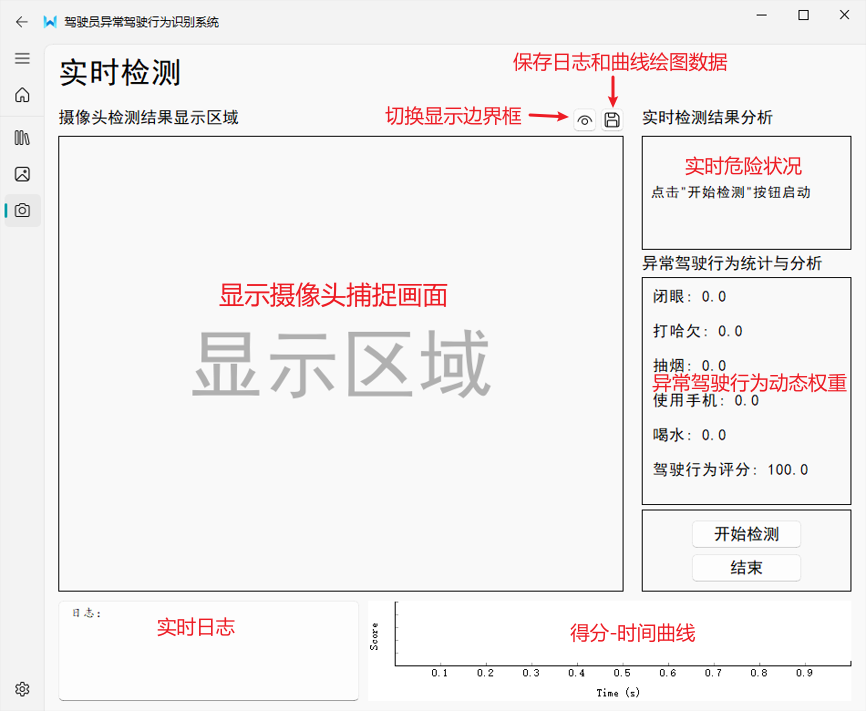
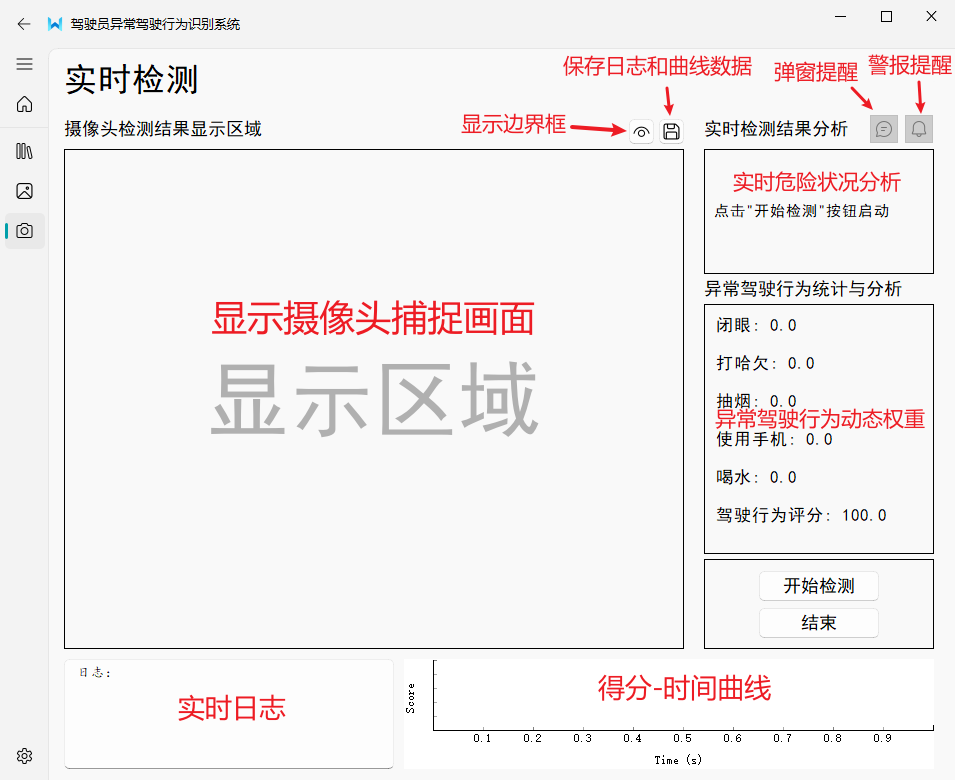
完善了实时检测的界面和弹窗提醒机制

diff --git a/adb-detector/real_time_detector.py b/adb-detector/real_time_detector.py
@@ -10,8 +10,8 @@ from PyQt5.QtCore import QTimer, Qt, QDateTime
 from PyQt5.QtGui import QFont, QImage, QPixmap
 from PyQt5.QtWidgets import QFrame, QVBoxLayout, QWidget, QMessageBox
 import pyqtgraph as pg  # pyqtgraph必须在PyQt5后面import
-from qfluentwidgets import PushButton, ToolButton, FluentIcon, TitleLabel, BodyLabel, TextEdit, qconfig, InfoBar, \
-    InfoBarPosition
+from qfluentwidgets import PushButton, ToolButton, FluentIcon, TitleLabel, BodyLabel, TextEdit, qconfig, \
+    TransparentToolButton
 
 from utils.config import MyConfig
 from playsound import playsound
@@ -76,13 +76,22 @@ class RealTime_Detector(QWidget):
         self.__score = 100
 
         self.__adb_frame_cnt = {'eye_close': 0, 'yawn': 0, 'smoke': 0, 'phone': 0, 'drink': 0}  # 单位时间内异常动作帧数统计
-        self.__frame_threshold = 0.4  # 被判定为异常行为的帧数所占正常帧数的比例阈值
+        self.__frame_threshold = 0.3  # 被判定为异常行为的帧数所占正常帧数的比例阈值
         self.queue = queue.Queue()  # 帧队列，存有单位时间（1s）内每一帧的异常行为
 
         # 实时检测结果分析
         self.res_label = BodyLabel('实时检测结果分析', self)
         self.res_label.setGeometry(655, 70, 150, 20)
         self.res_label.setFont(QFont("SimHei", 11))
+
+        self.msg_flag = TransparentToolButton(FluentIcon.MESSAGE, self)
+        self.msg_flag.setGeometry(820, 65, 30, 30)
+        self.msg_flag.setStyleSheet("background-color: yellow;")
+        self.msg_flag.setEnabled(False)
+        self.alarm_flag = TransparentToolButton(FluentIcon.RINGER, self)
+        self.alarm_flag.setGeometry(855, 65, 30, 30)
+        self.alarm_flag.setStyleSheet("background-color: red;")
+        self.alarm_flag.setEnabled(False)
 
         self.res_frame = QFrame(self)
         self.res_frame.setFrameShape(QFrame.Box)
@@ -256,17 +265,24 @@ class RealTime_Detector(QWidget):
         for adb, flag in self.adb_flag.items():
             self.__score -= (flag + self.lamda[adb]) * self.adb_weight[adb]
 
-        if 75 < self.__score <= 90 and self.isMsg == False:
-            self.msg.show()
-            self.isMsg = True
-        elif self.__score >= 90:
+        # 弹窗
+        if self.__score <= 90:
+            if not self.isMsg:
+                self.msg.show()
+                self.isMsg = True
+                self.msg_flag.setStyleSheet("background-color: yellow;")
+        else:
             self.msg.hide()
             self.isMsg = False
-        elif self.__score <= 75 and self.isAlarm == False:
-            self.isAlarm = True
-            alarm_thread = threading.Thread(target=self.alarm)
-            alarm_thread.daemon = True
-            alarm_thread.start()
+            self.msg_flag.setStyleSheet("")
+        # 警报
+        if self.__score <= 75:
+            if not self.isAlarm:
+                self.isAlarm = True
+                alarm_thread = threading.Thread(target=self.alarm)
+                alarm_thread.daemon = True
+                self.alarm_flag.setStyleSheet("background-color: red;")
+                alarm_thread.start()
 
         self.set_text()
 
@@ -274,6 +290,7 @@ class RealTime_Detector(QWidget):
         for _ in range(3):
             playsound(f'{self.resource_folder}/audio/alarm_80.mp3')
         self.isAlarm = False
+        self.alarm_flag.setStyleSheet("")
 
     def update_weight(self, adb):
         self.lamda[adb] = min(self.lamda[adb] + 0.2, 1)
@@ -308,7 +325,11 @@ class RealTime_Detector(QWidget):
             self.lamda[adb] = 0
 
         self.__score = 100
+
+        self.isMsg = False
+        self.msg_flag.setStyleSheet("")
         self.isAlarm = False
+        self.alarm_flag.setStyleSheet("")
 
     def set_text(self):
         self.analyse_label.setText(f'闭眼: {self.adb_flag["eye_close"] + self.lamda["eye_close"]:.1f}\n\n'

diff --git a/adb-detector/upload_detector.py b/adb-detector/upload_detector.py
@@ -1,10 +1,9 @@
 import os
-from pathlib import Path
-
 import cv2
 import numpy as np
+from pathlib import Path
 
-from PyQt5.QtCore import Qt, QUrl, pyqtSignal
+from PyQt5.QtCore import Qt, QUrl
 from PyQt5.QtGui import QFont, QImage, QPixmap
 from PyQt5.QtMultimedia import QMediaPlayer, QMediaContent
 from PyQt5.QtWidgets import QFrame, QWidget, QFileDialog, QTableWidgetItem, QHeaderView, QAbstractItemView, \
@@ -18,10 +17,6 @@ from utils.video_surface import myVideoSurface
 
 
 class Upload_Detector(QWidget):
-
-    # 导出功能的状态信号, 用于更新主窗口状态栏
-    exporting_signal = pyqtSignal()
-    exported_signal = pyqtSignal()
 
     def __init__(self, text: str, parent=None):
         super().__init__(parent=parent)
@@ -90,7 +85,7 @@ class Upload_Detector(QWidget):
         self.page_1 = QWidget()
         self.origin_src_label = BodyLabel('原图', self.page_1)
         self.origin_src_label.setGeometry(10, 5, 200, 25)
-        self.set_obj_font(self.origin_src_label)
+        self.origin_src_label.setFont(QFont('SimHei', 16))
         self.file_path_label = TextEdit(self.page_1)
         self.file_path_label.setReadOnly(True)
         self.file_path_label.setGeometry(140, 5, 500, 25)
@@ -104,7 +99,7 @@ class Upload_Detector(QWidget):
         self.page_2 = QWidget()
         self.origin_src_label_2 = BodyLabel('原视频', self.page_2)
         self.origin_src_label_2.setGeometry(10, 5, 200, 25)
-        self.set_obj_font(self.origin_src_label_2)
+        self.origin_src_label_2.setFont(QFont('SimHei', 16))
         self.video_path_label = TextEdit(self.page_2)
         self.video_path_label.setReadOnly(True)
         self.video_path_label.setGeometry(140, 5, 500, 25)
@@ -368,15 +363,11 @@ class Upload_Detector(QWidget):
             frame_width = int(cap.get(3))
             frame_height = int(cap.get(4))
             if self.path.lower().endswith('.mp4'):
-                print(1)
                 fourcc = cv2.VideoWriter_fourcc(*'mp4v')
                 out = cv2.VideoWriter(os.path.join(res_folder, os.path.basename(self.path).replace('.mp4', '_annotate.mp4')), fourcc, 20.0, (frame_width, frame_height))
-                print(2)
             elif self.path.lower().endswith('.avi'):
-                print(3)
                 fourcc = cv2.VideoWriter_fourcc(*'XVID')
                 out = cv2.VideoWriter(os.path.join(res_folder, os.path.basename(self.path).replace('.avi', '_annotate.avi')), fourcc, 20.0, (frame_width, frame_height))
-                print(4)
 
             while cap.isOpened():
                 success, frame = cap.read()
@@ -389,9 +380,6 @@ class Upload_Detector(QWidget):
             cap.release()
 
             self.exported_signal.emit()
-
-    def set_obj_font(self, obj):
-        obj.setFont(QFont('SimHei', 16))
 
     def init_sys(self):
         cfg = MyConfig()

diff --git a/adb-detector/main.py b/adb-detector/main.py
@@ -6,7 +6,7 @@ from PyQt5.QtWidgets import QApplication
 from qfluentwidgets import NavigationItemPosition, FluentWindow, SplashScreen, FluentIcon
 
 from home import Home
-from guide_demonstrator import Guide_Demonstrator
+from guide_demonstration import Guide_Demonstration
 from upload_detector import Upload_Detector
 from real_time_detector import RealTime_Detector
 from settings import Settings
@@ -25,7 +25,7 @@ class MainWindow(FluentWindow):
 
         # 创建子控件
         self.home_interface = Home('主页', self)
-        self.guide_interface = Guide_Demonstrator('操作指南', self)
+        self.guide_interface = Guide_Demonstration('操作指南', self)
         self.upload_interface = Upload_Detector('图片/视频检测', self)
         self.realtime_interface = RealTime_Detector('实时检测', self)
         self.setting_interface = Settings('设置', self)
@@ -50,8 +50,8 @@ class MainWindow(FluentWindow):
         self.addSubInterface(self.setting_interface, FluentIcon.SETTING, '设置', NavigationItemPosition.BOTTOM)
 
     def init_window(self):
-        self.resize(950, 780)
-        self.setMinimumSize(950, 780)
+        self.resize(955, 780)
+        self.setMinimumSize(955, 780)
         self.setWindowIcon(QIcon(':/qfluentwidgets/images/logo.png'))
         self.setWindowTitle('驾驶员异常驾驶行为识别系统')
 

diff --git a/adb-detector/guide_demonstration.py b/adb-detector/guide_demonstration.py
@@ -5,7 +5,7 @@ from PyQt5.QtWidgets import QWidget, QStackedWidget, QLabel, QVBoxLayout, QFrame
 from qfluentwidgets import TitleLabel, PipsPager, PipsScrollButtonDisplayMode
 
 
-class Guide_Demonstrator(QWidget):
+class Guide_Demonstration(QWidget):
     def __init__(self, text: str, parent=None):
         super().__init__(parent=parent)
         self.setObjectName(text.replace(' ', '-'))
